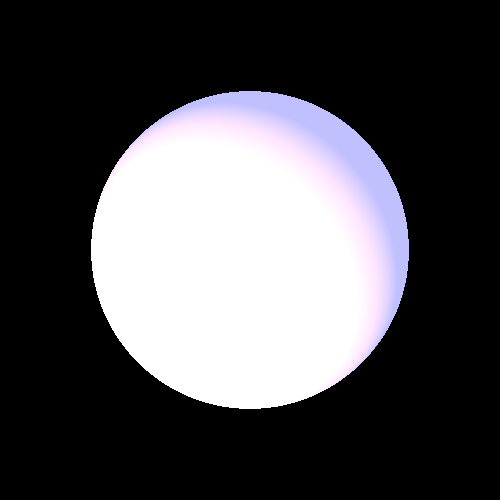
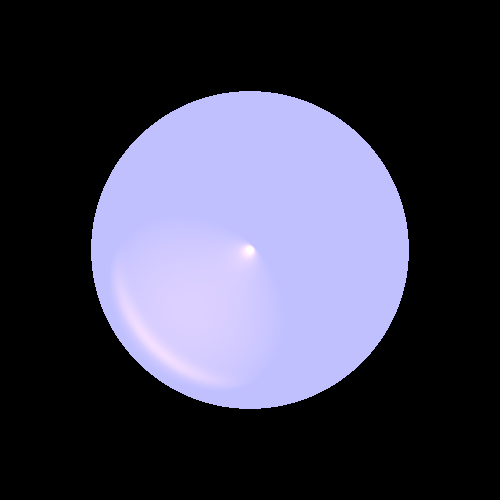
Exo 6 recherche de solution

Changed region(s): [[0.18, 0.21, 0.78, 0.84]]

diff --git a/src/unittests/LightsTests.java b/src/unittests/LightsTests.java
@@ -44,7 +44,7 @@ public class LightsTests {
 		Render render = new Render()//
 				.setImageWriter(imageWriter) //
 				.setCamera(camera1) //
-				.setScene(scene1)//
+			//	.setScene(scene1)//
 				.setRayTracer(new RayTracerBasic(scene1));
 		render.renderImage();
 		render.writeToImage();
@@ -63,7 +63,7 @@ public class LightsTests {
 		Render render = new Render()//
 				.setImageWriter(imageWriter) //
 				.setCamera(camera1) //
-				.setScene(scene1)//
+				//.setScene(scene1)//
 				.setRayTracer(new RayTracerBasic(scene1));
 		render.renderImage();
 		render.writeToImage();
@@ -82,7 +82,7 @@ public class LightsTests {
 		Render render = new Render()//
 				.setImageWriter(imageWriter) //
 				.setCamera(camera1) //
-				.setScene(scene1)//
+				//.setScene(scene1)//
 				.setRayTracer(new RayTracerBasic(scene1));
 		render.renderImage();
 		render.writeToImage();
@@ -101,7 +101,7 @@ public class LightsTests {
 		Render render = new Render()//
 				.setImageWriter(imageWriter) //
 				.setCamera(camera2) //
-				.setScene(scene2)//
+			//	.setScene(scene2)//
 				.setRayTracer(new RayTracerBasic(scene2));
 		render.renderImage();
 		render.writeToImage();
@@ -121,7 +121,7 @@ public class LightsTests {
 		Render render = new Render()//
 				.setImageWriter(imageWriter) //
 				.setCamera(camera2) //
-				.setScene(scene2)//
+			//	.setScene(scene2)//
 				.setRayTracer(new RayTracerBasic(scene2));
 		render.renderImage();
 		render.writeToImage();
@@ -141,10 +141,48 @@ public class LightsTests {
 		Render render = new Render()//
 				.setImageWriter(imageWriter) //
 				.setCamera(camera2) //
-				.setScene(scene2)//
+			//	.setScene(scene2)//
 				.setRayTracer(new RayTracerBasic(scene2));
 		render.renderImage();
 		render.writeToImage();
 	}
+	/*@Test
+	public void sphereAllLights() {
+		scene1.geometries.add(sphere);
+		scene1.lights.add(new DirectionalLight(new Color(0, 500, 500), new Vector(0, 0, -1)));
+		scene1.lights.add(new PointLight(new Color(0, 300, 500), new Point3D(-50, -50, 0))//
+				.setKl(0.00000001).setKq(0.0000001));
+		scene1.lights.add(new SpotLight(new Color(500, 300, 0), new Point3D(-60, 80, -60), new Vector(-1, -1, 5)) //
+				.setKl(0.00001).setKq(0.00000001));
 
+		ImageWriter imageWriter = new ImageWriter("allLightSphere", 500, 500);
+		Render render = new Render()//
+				.setImageWriter(imageWriter) //
+				.setCamera(camera1) //
+				.setRayTracer(new RayTracerBasic(scene1));
+		render.renderImage();
+		render.writeToImage();
+	}
+
+
+
+	@Test
+	public void trianglesAllLights() {
+		scene2.geometries.add(triangle1.setMaterial(new Material().setkD(0.5).setkS(0.5).setShininess(300)),
+				triangle2.setMaterial(new Material().setkD(0.5).setkS(0.5).setShininess(300)));
+		scene2.lights.add(new DirectionalLight(new Color(300, 150, 150), new Vector(0, -0.05, -1)));
+		scene2.lights.add(new PointLight(new Color(100, 250, 250), new Point3D(50, -10, -130)) //
+				.setKl(0.0005).setKq(0.0005));
+		scene2.lights.add(new SpotLight(new Color(500, 500, 500), new Point3D(-50, 50, -130), new Vector(-2, -2, -1)) //
+				.setKl(0.0001).setKq(0.000005));
+
+		ImageWriter imageWriter = new ImageWriter("allLightTriangles", 500, 500);
+		Render render = new Render()//
+				.setImageWriter(imageWriter) //
+				.setCamera(camera2) //
+				.setRayTracer(new RayTracerBasic(scene2));
+		render.renderImage();
+		render.writeToImage();
+	}
+*/
 }

diff --git a/src/renderer/RayTracerBasic.java b/src/renderer/RayTracerBasic.java
@@ -6,7 +6,7 @@ import primitives.*;
 import scene.Scene;
 
 import java.util.List;
-
+import geometries.Intersectable.GeoPoint;
 import static primitives.Util.alignZero;
 
 public class RayTracerBasic extends RayTracerBase {
@@ -25,7 +25,7 @@ public class RayTracerBasic extends RayTracerBase {
         return scene.background;
     }
 
-    private Color calcColor(Intersectable.GeoPoint point, Ray ray)
+    private Color calcColor(GeoPoint point, Ray ray)
     {
         return scene.ambientlight.getIntensity()
                 .add(point.geometry.getEmission())
@@ -33,38 +33,38 @@ public class RayTracerBasic extends RayTracerBase {
                 .add(calcLocalEffects(point, ray));
     }
 
-    private Color calcLocalEffects(Intersectable.GeoPoint intersection, Ray ray) {
+    private Color calcLocalEffects(GeoPoint intersection, Ray ray) {
         Vector v = ray.getDir();
         Vector n = intersection.geometry.getNormal(intersection.point);
-        double nv = alignZero(n.dotProduct(v));
+        double nv = Util.alignZero(n.dotProduct(v));
         if (nv == 0)
             return Color.BLACK;
         Material material = intersection.geometry.getMaterial();
-        int nShininess = material.getShininess();
-        double kd = material.getKd(), ks = material.getKs();
         Color color = Color.BLACK;
         for (LightSource lightSource : scene.lights) {
             Vector l = lightSource.getL(intersection.point);
-            double nl = alignZero(n.dotProduct(l));
-            if (nl * nv > 0) { // sign(nl) == sing(nv)
+            double nl = Util.alignZero(n.dotProduct(l));
+            if (nl * nv > 0) { 												// sign(nl) == sing(nv)
                 Color lightIntensity = lightSource.getIntensity(intersection.point);
-                color = color.add(calcDiffusive(kd, l, n, lightIntensity),
-                        calcSpecular(ks, l, n, v, nShininess, lightIntensity));
+                l = l.normalize();
+                n = n.normalize();
+                double dp = l.dotProduct(n); 						// help parameter for the next functions
+                color = color.add(calcDiffusive(material.getKd(), lightIntensity, dp),
+                        calcSpecular(material.getKs(), l, n, v, material.getShininess(), lightIntensity, dp));
             }
         }
         return color;
     }
 
-    private Color calcSpecular(double ks, Vector l, Vector n, Vector v, int nShininess, Color lightIntensity) {
-        l.normalize();
-        Vector r = l.substractV(n.scale(alignZero(l.dotProduct(n)*2)));
-        double minus_vr=alignZero(v.dotProduct(r)*(-1));
-        return lightIntensity.scale(ks*Math.pow(Math.max(0,minus_vr),nShininess));
+    Color calcSpecular(double kS, Vector l, Vector n, Vector v, int nShininess, Color lightIntensity, double dp) {
+        v = v.normalize();
+        Vector r = l.substractV(n.scale(2 * dp));
+        return lightIntensity.scale(kS * Math.pow(Math.max(0, (-1) * v.dotProduct(r)), nShininess));
     }
 
-    private Color calcDiffusive(double kd, Vector l, Vector n, Color lightIntensity) {
-        l.normalize();
-        return lightIntensity.scale(kd*Math.abs(alignZero(l.dotProduct(n))));
+    Color calcDiffusive(double kD, Color lightIntensity, double dp) {
+        return lightIntensity.scale(kD * Math.abs(dp));
     }
+
 
 }

diff --git a/src/renderer/Render.java b/src/renderer/Render.java
@@ -8,7 +8,7 @@ import java.util.MissingResourceException;
 
 public class Render {
     private ImageWriter imageWriter;
-    private Scene scene;
+   // private Scene scene;
     private Camera camera;
     private RayTracerBase rayTracer;
 
@@ -17,11 +17,11 @@ public class Render {
         return this;
     }
 
-    public Render setScene(Scene _scene) {
+ /*   public Render setScene(Scene _scene) {
         scene = _scene;
         return this;
     }
-
+*/
     public Render setCamera(Camera _camera) {
         camera = _camera;
         return this;
@@ -37,8 +37,8 @@ public class Render {
         {
             if (imageWriter == null)
                 throw new MissingResourceException("missing imageWriter", ImageWriter.class.getName(), "");
-            if (scene == null)
-                throw new MissingResourceException("missing scene", Scene.class.getName(), "");
+           // if (scene == null)
+             //   throw new MissingResourceException("missing scene", Scene.class.getName(), "");
             if (camera == null)
                 throw new MissingResourceException("missing camera", Camera.class.getName(), "");
             if (rayTracer == null)
@@ -85,6 +85,8 @@ public class Render {
                 throw new MissingResourceException("missing imageWriter", ImageWriter.class.getName(), "");
             imageWriter.writeToImage();
         }
-    }
+
+
+}
 
 

diff --git a/src/unittests/RenderTests.java b/src/unittests/RenderTests.java
@@ -40,7 +40,7 @@ public class RenderTests {
 		ImageWriter imageWriter = new ImageWriter("base render test 222", 1000, 1000);
 		Render render = new Render() //
 				.setImageWriter(imageWriter) //
-				.setScene(scene) //
+				//.setScene(scene) //
 				.setCamera(camera) //
 				.setRayTracer(new RayTracerBasic(scene));
 
@@ -72,7 +72,7 @@ public class RenderTests {
 		Render render = new Render() //
 				.setImageWriter(imageWriter) //
 				.setCamera(camera) //
-				.setScene(scene) //
+				//.setScene(scene) //
 				.setRayTracer(new RayTracerBasic(scene));
 
 		render.renderImage();
@@ -93,7 +93,7 @@ public class RenderTests {
 		Render render = new Render() //
 				.setImageWriter(imageWriter) //
 				.setCamera(camera) //
-				.setScene(scene)//
+				//.setScene(scene)//
 				.setRayTracer(new RayTracerBasic(scene));
 
 		render.renderImage();

diff --git a/src/elements/SpotLight.java b/src/elements/SpotLight.java
@@ -1,6 +1,7 @@
 package elements;
 import primitives.*;
-
+import primitives.Point3D;
+import primitives.Vector;
 public class SpotLight extends PointLight{
 
     private Vector direction;
@@ -27,7 +28,7 @@ public class SpotLight extends PointLight{
      */
     @Override
     public Color getIntensity(Point3D p) {
-        return super.getIntensity().scale(Math.max(0,direction.dotProduct(getL(p))));
+        return super.getIntensity(p).scale(Math.max(direction.normalize().dotProduct(getL(p)),0));
     }
 
     /**
@@ -36,8 +37,8 @@ public class SpotLight extends PointLight{
      * @param p
      * @return a directional vector
      */
-    @Override
+  @Override
     public Vector getL(Point3D p) {
-        return direction.normalize();
-    }
+       return direction.substractP(p).normalize();
+   }
 }

diff --git a/src/elements/PointLight.java b/src/elements/PointLight.java
@@ -16,9 +16,7 @@ public class PointLight extends Light implements LightSource{
      */
     public PointLight(){
         super(Color.BLACK);
-        kC=1;
-        kL=0;
-        kQ=0;
+
     }
 
     /*
@@ -35,9 +33,7 @@ public class PointLight extends Light implements LightSource{
     public PointLight(Color col,Point3D point){
         super(col);
         position=point;
-        kC=1;
-        kL=0;
-        kQ=0;
+
     }
 
     /**
@@ -49,7 +45,7 @@ public class PointLight extends Light implements LightSource{
     @Override
     public Color getIntensity(Point3D p) {
 
-        double d = position.distance(p); //distance
+        double d = position.subtract(p).length(); //distance
         double tmp = kC+kL*d+kQ*(d*d);
         return (getIntensity().reduce(tmp));
     }

diff --git a/src/primitives/Material.java b/src/primitives/Material.java
@@ -7,6 +7,17 @@ public class Material {
     double kS=0,kD=0;
     int nShininess=0;
 
+    public Material(double kD, double kS, int nShininess) {
+        this.kD = kD;
+        this.kS = kS;
+        this.nShininess = nShininess;
+    }
+
+    public Material() {
+        this.kD = 0;
+        this.kS = 0;
+        this.nShininess = 0;
+    }
     // chaining setters (with builder pattern)
     public Material setkS(double kS) {
         this.kS = kS;

diff --git a/src/primitives/Color.java b/src/primitives/Color.java
@@ -13,9 +13,9 @@ public class Color {
 	 * The internal fields tx`o maintain RGB components as double numbers from 0 to
 	 * whatever...
 	 */
-	private double r = 0.0;
-	private double g = 0.0;
-	private double b = 0.0;
+	private double r ;
+	private double g ;
+	private double b ;
 
 	public static final Color BLACK = new Color();
 

diff --git a/src/elements/AmbientLight.java b/src/elements/AmbientLight.java
@@ -8,8 +8,7 @@ public class AmbientLight extends Light {
         super(Color.BLACK);
     }
 
-    public AmbientLight(Color Ia, double kA){
-        super(new Color(Ia.scale(kA)));
+    public AmbientLight(Color Ia, double kA){ super(Ia.scale(kA));
     }
 
 

diff --git a/src/elements/Light.java b/src/elements/Light.java
@@ -4,7 +4,7 @@ import primitives.*;
 /**
  * Adding lights sources with Light class
  */
-class Light {
+abstract class Light {
 
      private final Color intensity;
 
